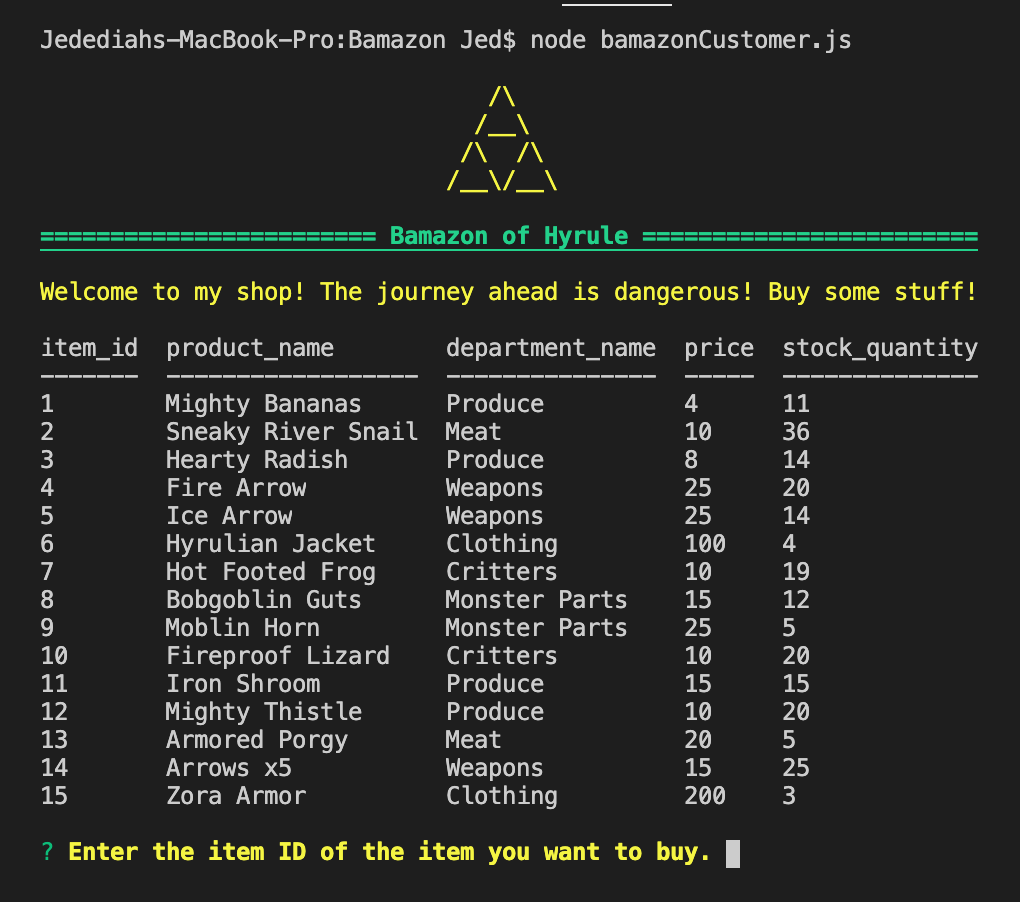
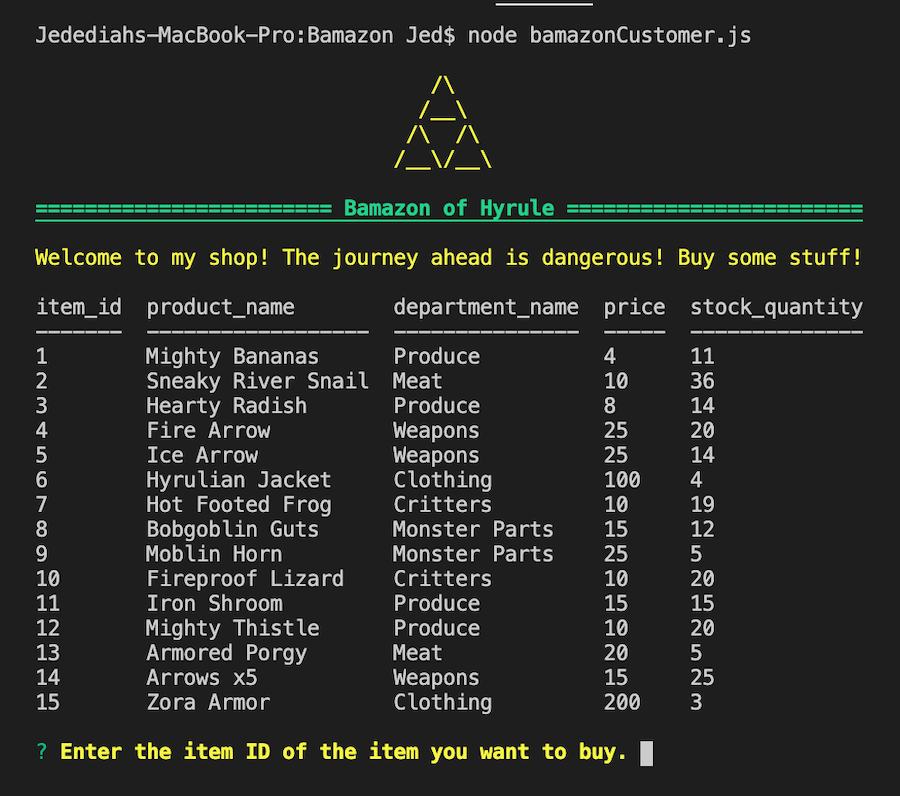
Added to read me

diff --git a/bamazonCustomer.js b/bamazonCustomer.js
@@ -12,7 +12,7 @@ var connection = mysql.createConnection({
     database: "bamazon"
 });
 
-// connect to the database
+// connect to the database and draw a triforce
 connection.connect(function (err) {
     if (err) throw err;
     console.log("\n                                /\\".brightYellow);
@@ -55,7 +55,6 @@ function purchase() {
 };
 
 // function to check inventory
-
 function checkInv() {
 
     connection.query("SELECT * FROM products", function (err, res) {
@@ -75,7 +74,7 @@ function checkInv() {
     })
 };
 
-// function completes transaction and updates inventory
+// function completes transaction and updates database
 function transact() {
     var newQuantity = stockQuantity - saleQuantity;
     connection.query("UPDATE products SET ? WHERE ?",
@@ -88,9 +87,8 @@ function transact() {
             }
         ], function (err, res) {
             if (err) throw err;
-            //console.log(res.affectedRows + " products updated!\n")
+            //console.log(res.affectedRows + " products updated!\n") //for testing
             console.log("Thank you! Please come again!\n".brightYellow);
-
         })
     connection.end();
 };

diff --git a/README.md b/README.md
@@ -10,9 +10,9 @@ It immediately prompts the user to enter the item ID of the item they want to pu
 
 ## Technologies Used
 
-Node.js, Javascript, mySQL, my SQL Workbench
+Node.js, Javascript, mySQL, mySQL Workbench
 
-Node Modules: inquirer (for input prompts), console.table (to display the inventory), colors (to style the console.log messages)
+Node Modules: inquirer (for input prompts), console.table (to display the inventory), colors (to style the messages)
 
 
 ## How It Works
@@ -30,3 +30,12 @@ The `transact()` function updates the database. As shown below, the stock quanti
 ![Updated-Database](updated-DB.png)
 
 Finally, the app thanks the user and ends the connection to the database.
+
+
+## Future
+
+Stretch goals include a manager add-on for inventory control and a supervisor add-on for accounting.
+
+Thanks for looking at my project.
+
+Jed
